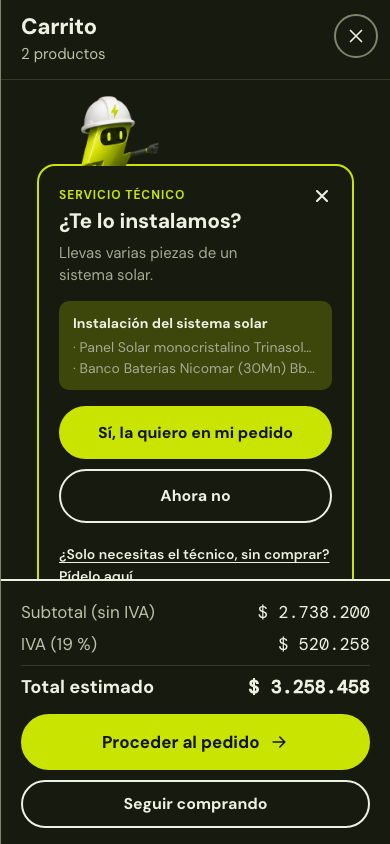
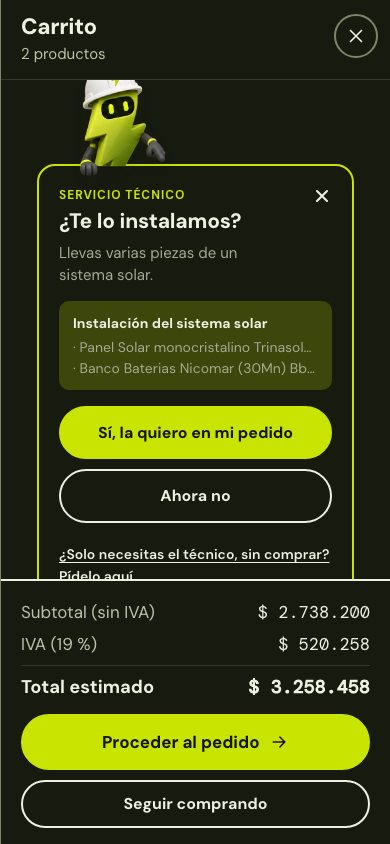
feat(mascota): personajes de arcilla 3D asomados al borde, estilo TARGET
ChatGPT los rehízo en arcilla mate con la mascota de TARGET, el diseño aprobado y el logo
de referencia, asomados a un borde con las manos agarradas. recortar.py separa las poses
por piezas conectadas (la mano que señala va con su pose, parte las poses que se tocan) y
las alinea por la línea del borde. En la tienda la línea del borde va sobre el de la
tarjeta, los dedos cuelgan por delante y al subir o esconderse se recorta en el borde.
El Técnico va más grande para que se lea el rayo.

Changed region(s): [[0.1846, 0.0924, 0.4308, 0.2156]]

diff --git a/chispa-tecnico.js b/chispa-tecnico.js
@@ -10,7 +10,7 @@
  * Sin data-endpoint, la solicitud sale por WhatsApp al número de la tienda (data-whatsapp lo cambia).
  *
  * La mascota se asoma por el borde de la tarjeta, como la de TARGET: el Técnico (rayo con casco) atiende, y el Medidor
- * y la Ingeniera hacen cameo según el caso. Cada uno es una hoja de sprites con una pose por acción (sprites/*-arte.webp,
+ * y la Ingeniera hacen cameo según el caso. Cada uno es una hoja de sprites con una pose por acción (sprites/*-arcilla.webp,
  * ilustración de ChatGPT recortada con sprites/recortar.py); con movimiento reducido no sube ni respira, solo cambia de pose.
  */
 (function () {
@@ -91,9 +91,10 @@
   // Los mismos campos, botones y colores de la tienda (DM Sans, lima #c9e400, campos de 48 px con borde de 2 px,
   // botones píldora), en claro y en oscuro, para que se lea como parte de ella.
   const css = `
-.cht{--t:#12140a;--fondo:#fff;--borde:#12140a;--campo:#6f7660;--linea:#d3d7c2;--suave:#565c46;--acento:#3b4f00;--lima:#c9e400;--error:#b42318;position:relative;margin:120px 16px 16px;font:inherit;color:var(--t);scroll-margin-top:190px}
+.cht{--t:#12140a;--fondo:#fff;--borde:#12140a;--campo:#6f7660;--linea:#d3d7c2;--suave:#565c46;--acento:#3b4f00;--lima:#c9e400;--error:#b42318;position:relative;margin:142px 16px 16px;font:inherit;color:var(--t);scroll-margin-top:190px}
 [data-theme=dark] .cht{--t:#eef1e2;--fondo:#171a0f;--borde:#c9e400;--campo:#7e856c;--linea:#343a26;--suave:#a5ab93;--acento:#c9e400;--error:#ff9b8f}
-.pedido__lineas > .cht{margin:120px 0 8px}
+.pedido__lineas > .cht{margin:142px 0 8px}
+@media(max-width:600px){.cht{margin-top:126px}.pedido__lineas > .cht{margin-top:126px}}
 .cht *{box-sizing:border-box}
 .cht [hidden]{display:none!important}
 .cht-card{position:relative;background:var(--fondo);border:2px solid var(--borde);border-radius:18px;padding:20px}
@@ -146,33 +147,36 @@
 .cht-resumen .cht-enlace{margin:0;padding:4px 0}
 .cht-ok{display:flex;gap:12px;align-items:flex-start;margin-right:-8px}
 .cht-ok svg{flex:none;margin-top:4px;color:var(--acento)}
-/* la mascota: se asoma por el borde de arriba de la tarjeta; lo que queda por debajo del borde no se ve */
-.cht-mascota{position:absolute;bottom:100%;left:var(--mx,22%);width:var(--w,98px);height:var(--ver,96px);margin-left:calc(var(--w,98px) * var(--ax,.5) * -1);overflow:hidden;pointer-events:none;user-select:none}
+/* la mascota de arcilla se asoma por el borde de arriba de la tarjeta, como la de TARGET: su línea del borde (--ay)
+   queda sobre el borde de la tarjeta y los dedos cuelgan por delante. Mientras sube o se esconde se recorta en esa línea. */
+.cht-mascota{position:absolute;left:var(--mx,22%);bottom:calc(100% - var(--h,120px) * (1 - var(--ay,.8)));width:var(--w,98px);height:var(--h,120px);margin-left:calc(var(--w,98px) * var(--ax,.5) * -1);pointer-events:none;user-select:none;filter:drop-shadow(0 6px 10px rgba(18,20,10,.12))}
 .cht-sube{position:absolute;inset:0}
-.cht-pj{position:absolute;left:0;top:0;width:var(--w);height:var(--h);background-repeat:no-repeat;background-size:calc(var(--w) * 6) var(--h);transform-origin:50% 100%;animation:cht-respirar 4.8s ease-in-out infinite}
+.cht-mascota[data-recorte] .cht-sube{clip-path:inset(-60% -60% calc((1 - var(--ay)) * 100%) -60%)}
+.cht-pj{position:absolute;inset:0;background-repeat:no-repeat;background-size:calc(var(--w) * 6) var(--h);transform-origin:calc(var(--ax) * 100%) calc(var(--ay) * 100%);animation:cht-respirar 4.8s ease-in-out infinite}
 @keyframes cht-respirar{50%{transform:scale(1.008,1.016)}}
 @media(prefers-reduced-motion:reduce){.cht-pj{animation:none}}
 `;
 
-  // ── La mascota: hojas de sprites (ilustración de ChatGPT), una pose por acción ─────────────────────────────
+  // ── La mascota: personajes de arcilla asomados (estilo TARGET), una pose por acción ───────────────────────
   // El Técnico atiende; el Medidor hace cameo en los servicios de medición y la Ingeniera cuando escribe una persona del
-  // equipo. Cada hoja es una fila de 6 cuadros en este orden; ancho/alto son los del cuadro y ancla, el punto de los pies
-  // o del torso. ver: alto en pantalla; hundir: cuánto queda por debajo del borde de la tarjeta.
+  // equipo. Cada hoja es una fila de 6 cuadros en este orden; ancho/alto son los del cuadro, ax/ay el centro del cuerpo
+  // sobre la línea del borde (en fracción) y ver, el alto que se ve por encima del borde de la tarjeta.
   const POSES = ["reposo", "parpadeo", "saludo", "pensar", "senalar", "celebrar"];
   const PJ = {
-    tecnico: { ancho: 239, alto: 420, ancla: 0.4607, ver: 206, hundir: 0.45 },
-    medidor: { ancho: 310, alto: 420, ancla: 0.4674, ver: 150, hundir: 0.4 },
-    ingeniera: { ancho: 289, alto: 420, ancla: 0.5241, ver: 150, hundir: 0.3 },
+    tecnico: { ancho: 313, alto: 420, ax: 0.3781, ay: 0.8964, ver: 134 },
+    medidor: { ancho: 410, alto: 420, ax: 0.4155, ay: 0.8684, ver: 108 },
+    ingeniera: { ancho: 322, alto: 420, ax: 0.5432, ay: 0.9308, ver: 118 },
   };
   const SPRITES = CONF.sprites || new URL("sprites/", yo?.src || location.href).href;
   const MASCOTA = '<span class="cht-mascota" aria-hidden="true"><span class="cht-sube"><span class="cht-pj"></span></span></span>';
-  const precargarSprites = () => Object.keys(PJ).forEach((k) => { new Image().src = `${SPRITES}${k}-arte.webp`; });
+  const precargarSprites = () => Object.keys(PJ).forEach((k) => { new Image().src = `${SPRITES}${k}-arcilla.webp`; });
 
   function crearMascota(caja) {
     const sube = caja.querySelector(".cht-sube"), pj = caja.querySelector(".cht-pj");
     let actual = null, pose = "reposo", turno = 0, vivo = true, parpadeo = 0;
     const esperar = (ms) => new Promise((ok) => setTimeout(ok, ms));
-    const medida = () => { const d = PJ[actual]; const alto = d.ver * (innerWidth < 600 ? 0.85 : 1); return { alto, ancho: (alto * d.ancho) / d.alto }; };
+    // alto de la celda entera: lo visible sobre el borde es ver, y eso es la fracción ay de la celda
+    const medida = () => { const d = PJ[actual]; const alto = (d.ver * (innerWidth < 600 ? 0.88 : 1)) / d.ay; return { alto, ancho: (alto * d.ancho) / d.alto }; };
     const poner = (p) => {
       pose = p;
       if (!actual) return;
@@ -184,13 +188,19 @@
       const { alto, ancho } = medida();
       caja.style.setProperty("--w", `${ancho}px`);
       caja.style.setProperty("--h", `${alto}px`);
-      caja.style.setProperty("--ver", `${alto * (1 - PJ[k].hundir)}px`);
-      caja.style.setProperty("--ax", PJ[k].ancla);
-      pj.style.backgroundImage = `url("${SPRITES}${k}-arte.webp")`;
+      caja.style.setProperty("--ax", PJ[k].ax);
+      caja.style.setProperty("--ay", PJ[k].ay);
+      pj.style.backgroundImage = `url("${SPRITES}${k}-arcilla.webp")`;
     };
-    // sube desde detrás del borde o baja a esconderse
-    const mover = (desde, hasta, ms) => (reducido ? Promise.resolve()
-      : sube.animate([{ transform: `translateY(${desde})` }, { transform: `translateY(${hasta})` }], { duration: ms, easing: "cubic-bezier(.2,.8,.2,1)", fill: "forwards" }).finished.catch(() => {}));
+    // sube desde detrás del borde o baja a esconderse, recortado en la línea del borde; al llegar arriba se suelta el
+    // recorte y aparecen los dedos que cuelgan por delante
+    const mover = async (subir, ms) => {
+      if (reducido) return;
+      const abajo = `translateY(${Math.round(PJ[actual].ay * 100) + 4}%)`;
+      caja.dataset.recorte = "";
+      await sube.animate([{ transform: subir ? abajo : "none" }, { transform: subir ? "none" : abajo }], { duration: ms, easing: subir ? "cubic-bezier(.2,.8,.2,1)" : "cubic-bezier(.5,0,.8,.4)", fill: "forwards" }).finished.catch(() => {});
+      if (subir) delete caja.dataset.recorte;
+    };
     // parpadea cada tanto, solo quieto y con la pestaña a la vista
     const programar = () => {
       clearTimeout(parpadeo);
@@ -204,8 +214,8 @@
       // cambia de personaje si hace falta (el que está se esconde y sube el otro) y corre las poses con su duración
       async mostrar(k, secuencia) {
         const mio = ++turno;
-        if (actual && actual !== k) { await mover("0", "100%", 260); if (mio !== turno) return; }
-        if (actual !== k) { vestir(k); poner(secuencia[0][0]); await mover("100%", "0", 560); }
+        if (actual && actual !== k) { await mover(false, 280); if (mio !== turno) return; }
+        if (actual !== k) { vestir(k); poner(secuencia[0][0]); await mover(true, 620); }
         for (const [p, ms] of secuencia) {
           if (!vivo || mio !== turno) return;
           poner(p);

diff --git a/sprites/recortar.py b/sprites/recortar.py
@@ -12,94 +12,122 @@ from PIL import Image
 
 RAIZ = Path(__file__).resolve().parent.parent
 ACCIONES = ["reposo", "parpadeo", "saludo", "pensar", "senalar", "celebrar"]
-PERSONAJES = {"tecnico": "opcion-2-tecnico.png", "medidor": "opcion-3-medidor.png", "ingeniera": "opcion-4-ingeniera.png"}
+# arcilla/: asomados por encima de un borde (estilo TARGET); el ancla es la línea del borde y los dedos cuelgan por debajo
+PERSONAJES = {"tecnico": "arcilla/tecnico.png", "medidor": "arcilla/medidor.png", "ingeniera": "arcilla/ingeniera.png"}
 ALTO = 420  # alto final de la celda, en px (se muestra a ~150 px: sobra para pantallas 2x)
 MARGEN = 12
 
 
-def poses(mascara, n=6):
-    """Las poses vienen repartidas a lo ancho en n partes iguales, y a veces un brazo toca la pose vecina: se corta en la
-    columna más vacía cerca de cada límite (±1/3 de celda) y se recorta cada tramo a lo que tiene."""
-    ancho = mascara.shape[1]
-    perfil = mascara.sum(axis=0)
-    celda = ancho / n
-    cortes = [0]
-    for k in range(1, n):
-        c = int(k * celda)
-        r = int(celda / 3)
-        cortes.append(c - r + int(np.argmin(perfil[c - r:c + r])))
-    cortes.append(ancho)
-    tramos = []
-    for x0, x1 in zip(cortes, cortes[1:]):
-        xs = np.where(perfil[x0:x1] > 0)[0]
-        tramos.append([x0 + int(xs[0]), x0 + int(xs[-1]) + 1])
-    return tramos
-
-
-def sin_migas(pieza):
-    """Quita los pedacitos que entraron de la pose vecina por el corte (tocan el borde izquierdo o derecho y son chicos)."""
-    a = np.array(pieza)
-    m = a[..., 3] > 40
+def etiquetar(m):
+    """Piezas conectadas (8 vecinos) de la máscara: devuelve la matriz de etiquetas y [(etiqueta, área, x0, x1)]."""
     alto, ancho = m.shape
     etiqueta = np.zeros(m.shape, dtype=np.int32)
-    grupos = []
+    piezas = []
     for y0, x0 in zip(*np.nonzero(m)):
         if etiqueta[y0, x0]:
             continue
-        n = len(grupos) + 1
-        pila, area, toca, caja = [(y0, x0)], 0, False, [y0, x0, y0, x0]
+        n = len(piezas) + 1
         etiqueta[y0, x0] = n
+        pila, area, xa, xb = [(y0, x0)], 0, x0, x0
         while pila:
             y, x = pila.pop()
             area += 1
-            toca |= x == 0 or x == ancho - 1
-            caja = [min(caja[0], y), min(caja[1], x), max(caja[2], y), max(caja[3], x)]
+            xa, xb = min(xa, x), max(xb, x)
             for dy in (-1, 0, 1):
                 for dx in (-1, 0, 1):
                     yy, xx = y + dy, x + dx
                     if 0 <= yy < alto and 0 <= xx < ancho and m[yy, xx] and not etiqueta[yy, xx]:
                         etiqueta[yy, xx] = n
                         pila.append((yy, xx))
-        grupos.append((n, area, toca, caja))
-    mayor = max(g[1] for g in grupos)
-    for n, area, toca, (y0, x0, y1, x1) in grupos:
-        if toca and area < mayor * 0.03:
-            # fuera la miga y el borde suave que la rodea
-            zona = a[max(0, y0 - 3):y1 + 4, max(0, x0 - 3):x1 + 4]
-            propia = etiqueta[max(0, y0 - 3):y1 + 4, max(0, x0 - 3):x1 + 4]
-            zona[(propia == n) | ((propia == 0) & (zona[..., 3] <= 40))] = 0
-    return Image.fromarray(a)
+        piezas.append((n, area, xa, xb + 1))
+    return etiqueta, piezas
+
+
+def poses(mascara, n=6):
+    """Reparte las piezas conectadas en n poses: las n más grandes son los cuerpos y cada pieza suelta (una mano que
+    señala, un casco levantado, una miga) va con el cuerpo más cercano a lo ancho. Así nada queda en la celda vecina."""
+    etiqueta, piezas = etiquetar(mascara)
+    # si dos poses se tocan (hombro con hombro) salen como una pieza: se parte la más ancha por su columna más vacía,
+    # en su tramo del medio, hasta tener n cuerpos
+    grandes = lambda: [p for p in piezas if p[1] >= max(q[1] for q in piezas) * 0.15]
+    while len(grandes()) < n:
+        k, area, x0, x1 = max(grandes(), key=lambda p: p[3] - p[2])
+        suya = etiqueta == k
+        perfil = suya[:, x0:x1].sum(axis=0)
+        a, b = int((x1 - x0) * 0.3), int((x1 - x0) * 0.7)
+        corte = x0 + a + int(np.argmin(perfil[a:b]))
+        nueva = len(piezas) + 1
+        derecha = suya.copy()
+        derecha[:, :corte] = False
+        etiqueta[derecha] = nueva
+        izquierda = int(suya[:, :corte].sum())
+        piezas = [p for p in piezas if p[0] != k] + [(k, izquierda, x0, corte), (nueva, area - izquierda, corte, x1)]
+    cuerpos = sorted(sorted(piezas, key=lambda p: -p[1])[:n], key=lambda p: p[2])
+    de = {c[0]: i for i, c in enumerate(cuerpos)}
+
+    def distancia(p, c):
+        return max(0, c[2] - p[3], p[2] - c[3])
+
+    for p in piezas:
+        if p[0] not in de:
+            de[p[0]] = min(range(n), key=lambda i: (distancia(p, cuerpos[i]), abs((p[2] + p[3]) / 2 - (cuerpos[i][2] + cuerpos[i][3]) / 2)))
+    mapa = np.full(max(p[0] for p in piezas) + 1, -1, dtype=np.int32)
+    for k, i in de.items():
+        mapa[k] = i
+    return mapa[etiqueta], n  # la pose de cada píxel (−1: fondo)
+
+
+def ensanchar(m, veces=3):
+    for _ in range(veces):
+        m = m | np.roll(m, 1, 0) | np.roll(m, -1, 0) | np.roll(m, 1, 1) | np.roll(m, -1, 1)
+    return m
+
+
+def linea_del_borde(cual, n):
+    """Fila donde el cuerpo termina recto: desde abajo, la primera fila ancha (≥ 45 % de la fila más ancha de la pose).
+    Lo que sigue por debajo son los dedos que cuelgan. Se usa la mediana de las poses: todas se asoman al mismo borde."""
+    filas = []
+    for i in range(n):
+        anchos = (cual == i).sum(axis=1)
+        filas.append(int(np.where(anchos >= anchos.max() * 0.45)[0][-1]) + 1)
+    return int(np.median(filas))
 
 
 def recortar(clave, archivo):
     im = Image.open(RAIZ / "arte" / archivo).convert("RGBA")
     a = np.array(im)
-    mascara = a[..., 3] > 40
+    cual, n = poses(a[..., 3] > 40)
+    borde = linea_del_borde(cual, n)
     piezas = []
-    for x0, x1 in poses(mascara):
-        filas = np.where(mascara[:, x0:x1].any(axis=1))[0]
-        y0, y1 = int(filas[0]), int(filas[-1]) + 1
-        # ancla: el centro de lo que hay en el quinto de abajo (pies o torso) y la línea de abajo
-        abajo = mascara[y1 - (y1 - y0) // 5:y1, x0:x1]
-        ax = x0 + float(np.where(abajo)[1].mean())
-        piezas.append({"caja": (x0, y0, x1, y1), "ancla": (ax, y1)})
+    for i in range(n):
+        suya = cual == i
+        ys, xs = np.nonzero(suya)
+        x0, x1, y0, y1 = int(xs.min()), int(xs.max()) + 1, int(ys.min()), int(ys.max()) + 1
+        # la pose sola: fuera lo de las otras poses y su borde suave
+        sola = a[y0:y1, x0:x1].copy()
+        otras = ensanchar((cual >= 0) & ~suya)[y0:y1, x0:x1]
+        sola[otras & ~suya[y0:y1, x0:x1]] = 0
+        franja = suya[borde - 24:borde, x0:x1]
+        ax = x0 + float(np.where(franja)[1].mean())
+        piezas.append({"caja": (x0, y0, x1, y1), "ancla": (ax, borde), "img": Image.fromarray(sola)})
     izq = max(p["ancla"][0] - p["caja"][0] for p in piezas)
     der = max(p["caja"][2] - p["ancla"][0] for p in piezas)
     arriba = max(p["ancla"][1] - p["caja"][1] for p in piezas)
-    ancho, alto = int(izq + der) + 2 * MARGEN, int(arriba) + 2 * MARGEN
+    debajo = max(p["caja"][3] - p["ancla"][1] for p in piezas)
+    ancho, alto = int(izq + der) + 2 * MARGEN, int(arriba + debajo) + 2 * MARGEN
     hoja = Image.new("RGBA", (ancho * len(piezas), alto), (0, 0, 0, 0))
     for i, p in enumerate(piezas):
         x0, y0, x1, y1 = p["caja"]
         ax, ay = p["ancla"]
-        hoja.alpha_composite(sin_migas(im.crop((x0, y0, x1, y1))), (int(i * ancho + MARGEN + izq - (ax - x0)), int(MARGEN + arriba - (ay - y0))))
+        hoja.alpha_composite(p["img"], (int(i * ancho + MARGEN + izq - (ax - x0)), int(MARGEN + arriba - (ay - y0))))
     escala = ALTO / alto
     cw, ch = round(ancho * escala), ALTO
     hoja = hoja.resize((cw * len(piezas), ch), Image.LANCZOS)
-    hoja.save(RAIZ / "sprites" / f"{clave}-arte.webp", "WEBP", quality=90, method=6)
+    hoja.save(RAIZ / "sprites" / f"{clave}-arcilla.webp", "WEBP", quality=90, method=6)
     meta = {"personaje": clave, "cuadro": {"ancho": cw, "alto": ch}, "acciones": {k: i for i, k in enumerate(ACCIONES)},
-            # dónde queda el ancla (pies o torso) dentro de la celda, en fracción: para colgarlo del borde de la tarjeta
+            # dónde queda el ancla (centro del cuerpo sobre la línea del borde) dentro de la celda, en fracción
             "ancla": {"x": round((MARGEN + izq) / ancho, 4), "y": round((MARGEN + arriba) / alto, 4)}}
-    (RAIZ / "sprites" / f"{clave}-arte.json").write_text(json.dumps(meta, indent=2) + "\n")
+    (RAIZ / "sprites" / f"{clave}-arcilla.json").write_text(json.dumps(meta, indent=2) + "\n")
     print(clave, f"{cw}×{ch} por cuadro", meta["ancla"])
 
 

diff --git a/README.md b/README.md
@@ -73,7 +73,7 @@ El **Técnico** (el rayo con casco de ingeniero) es el que atiende. Dos personaj
 
 Al cambiar de personaje, el que está se esconde detrás del borde y sube el otro.
 
-Cada personaje es una hoja de sprites en `sprites/<personaje>-arte.webp`. Tiene una pose por acción, en este orden:
+Los tres son de arcilla 3D, como la mascota de TARGET: se asoman por el borde de la tarjeta con las manos agarradas por delante. Cada personaje es una hoja de sprites en `sprites/<personaje>-arcilla.webp`. Tiene una pose por acción, en este orden:
 
 | Pose | Cuándo sale |
 |---|---|
@@ -86,8 +86,7 @@ Cada personaje es una hoja de sprites en `sprites/<personaje>-arte.webp`. Tiene 
 
 El `.json` de cada hoja trae el tamaño del cuadro y el punto donde va parado el personaje.
 
-Las poses salen de ilustraciones de ChatGPT (`arte/`). `sprites/recortar.py` las recorta, quita las migas que deja
-la pose vecina y las alinea por los pies o el torso. Con movimiento reducido no sube ni respira: solo cambia de pose.
+Las poses salen de ilustraciones de ChatGPT (`arte/arcilla/`, hechas con la mascota de TARGET y el logo de referencia, que están en `arte/referencias/`). `sprites/recortar.py` las separa por piezas (una mano suelta va con su pose) y las alinea por la línea del borde. Con movimiento reducido no sube ni respira: solo cambia de pose.
 
 Para servir las hojas desde otra ruta, usar `data-sprites="https://…/sprites/"`.
 
